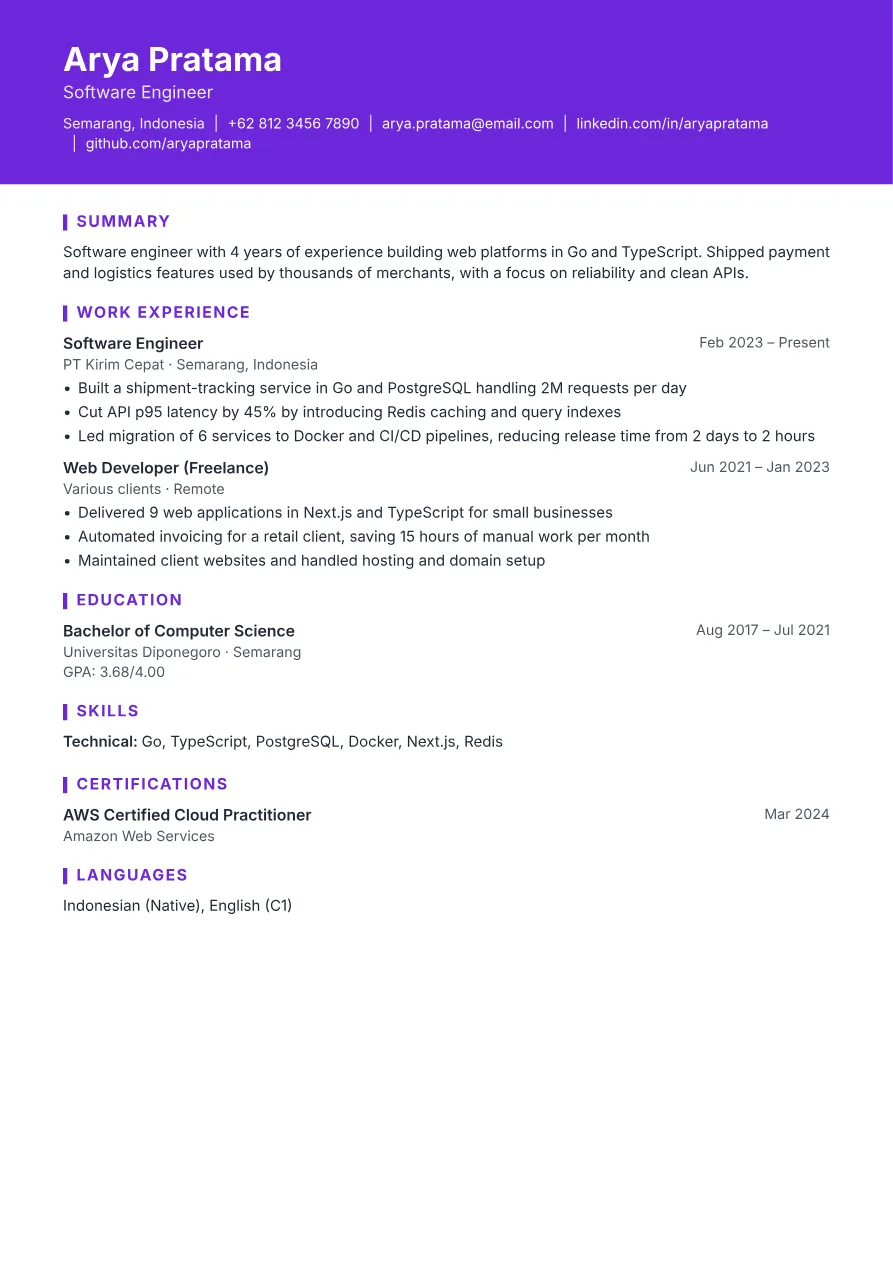
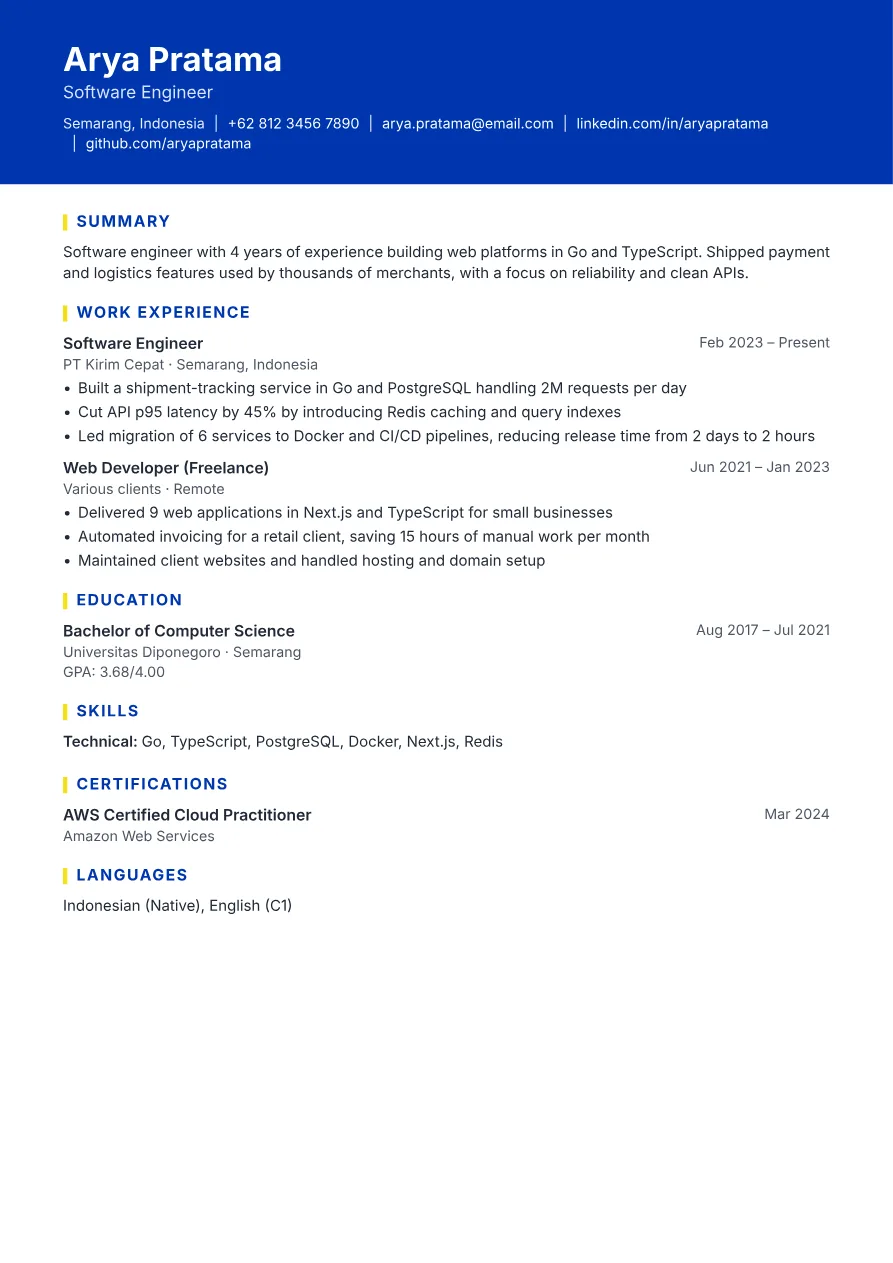
style(template): Creative pakai biru Ayo Kerja, bukan ungu
Pita header Creative jadi biru royal (#0035AD) dengan penanda judul
seksi kuning, sesuai warna merek; DOCX ikut biru. Pratinjau di
public/previews dibuat ulang.

Dicek ulang semua template lewat pdftotext: satu kolom, urutan baca
benar, judul seksi standar utuh, font tertanam.

Claude-Session: https://claude.ai/code/session_01KchFRD7Qxqg8zuSc6kTfyq

diff --git a/apps/web/lib/cv/pdf/document.tsx b/apps/web/lib/cv/pdf/document.tsx
@@ -12,6 +12,8 @@ interface Theme {
   rule: string;
   header: 'left' | 'center' | 'band';
   heading: 'underline' | 'rule' | 'bar';
+  /** Warna penanda di kiri judul seksi (heading 'bar'); default accent. */
+  marker?: string;
 }
 
 // All templates are single-column with real text and standard headings so ATS parsers
@@ -22,7 +24,8 @@ const THEMES: Record<TemplateId, Theme> = {
   executive: { font: 'Source Serif 4', accent: '#111827', text: '#111827', muted: '#374151', rule: '#111827', header: 'center', heading: 'rule' },
   tech: { font: 'Inter', accent: '#0f766e', text: '#111827', muted: '#4b5563', rule: '#99f6e4', header: 'left', heading: 'bar' },
   academic: { font: 'Source Serif 4', accent: '#1e3a8a', text: '#111827', muted: '#374151', rule: '#1e3a8a', header: 'left', heading: 'rule' },
-  creative: { font: 'Inter', accent: '#6d28d9', text: '#1f2937', muted: '#4b5563', rule: '#ddd6fe', header: 'band', heading: 'bar' },
+  // Warna Ayo Kerja: pita biru royal, penanda judul kuning.
+  creative: { font: 'Inter', accent: '#0035AD', text: '#1f2937', muted: '#4b5563', rule: '#dbe4ff', header: 'band', heading: 'bar', marker: '#F4E11B' },
 };
 
 const PAGE_X = 42;
@@ -72,7 +75,7 @@ function createStyles(theme: Theme) {
       borderBottomColor: theme.rule,
     },
     sectionTitleRow: { flexDirection: 'row', alignItems: 'center', marginBottom: 6 },
-    sectionTitleBar: { width: 3, height: 11, marginRight: 6, backgroundColor: theme.accent },
+    sectionTitleBar: { width: 3, height: 11, marginRight: 6, backgroundColor: theme.marker ?? theme.accent },
     sectionTitle: {
       fontSize: 10.5,
       fontWeight: 700,
@@ -152,10 +155,10 @@ function Header({ view, theme, s }: { view: CvView; theme: Theme; s: Styles }) {
       <View style={[s.band, s.headerRow]}>
         <View style={s.headerText}>
         {view.name ? <Text style={[s.name, { color: '#ffffff' }]}>{view.name}</Text> : null}
-        {view.headline ? <Text style={[s.headline, { color: '#ede9fe' }]}>{view.headline}</Text> : null}
+        {view.headline ? <Text style={[s.headline, { color: '#dbe4ff' }]}>{view.headline}</Text> : null}
         {view.contacts.length > 0 ? (
           <View style={s.contacts}>
-            <ContactLine contacts={view.contacts} color="#f5f3ff" linkColor="#ffffff" />
+            <ContactLine contacts={view.contacts} color="#eaf0ff" linkColor="#ffffff" />
           </View>
         ) : null}
         </View>

diff --git a/apps/web/lib/cv/docx.ts b/apps/web/lib/cv/docx.ts
@@ -34,7 +34,7 @@ const THEMES: Record<TemplateId, DocxTheme> = {
   executive: { font: 'Georgia', accent: '111827', muted: '374151', centered: true },
   tech: { font: 'Calibri', accent: '0F766E', muted: '4B5563', centered: false },
   academic: { font: 'Georgia', accent: '1E3A8A', muted: '374151', centered: false },
-  creative: { font: 'Calibri', accent: '6D28D9', muted: '4B5563', centered: false },
+  creative: { font: 'Calibri', accent: '0035AD', muted: '4B5563', centered: false },
 };
 
 const link = (text: string, href: string) =>

diff --git a/apps/web/lib/cv/templates.ts b/apps/web/lib/cv/templates.ts
@@ -46,7 +46,7 @@ export const TEMPLATE_INFO: Record<TemplateId, TemplateInfo> = {
   },
   creative: {
     name: 'Creative',
-    description: 'Header berwarna, tetap satu kolom. Untuk desain, marketing, dan startup.',
+    description: 'Header biru, tetap satu kolom. Untuk desain, marketing, dan startup.',
     audiences: ['creative'],
   },
 };
